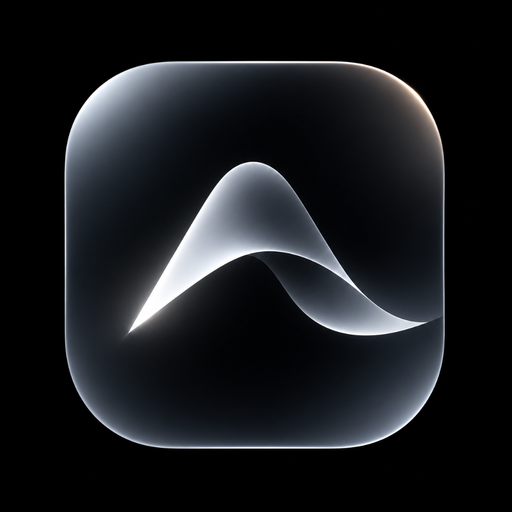
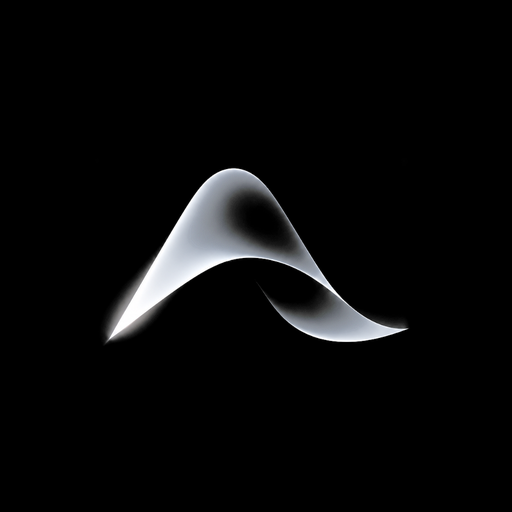
brand: remove squircle border and transition to borderless floating acoustic ribbon

diff --git a/app/src/main/java/com/aura/ui/components/OpeningReveal.kt b/app/src/main/java/com/aura/ui/components/OpeningReveal.kt
@@ -38,6 +38,8 @@ object Opening {
 /** The splash's black, matching the system splash screen and device bezels. */
 val OPENING_FIELD = Color.Black
 
+private val LOGO_SIZE = 240.dp
+
 /**
  * Apple-grade AURA Opening Reveal with Calibrated Organic Illumination:
  *
@@ -45,8 +47,8 @@ val OPENING_FIELD = Color.Black
  *    Seamlessly takes over from the OS splash screen on pure OLED black (#000000).
  *
  * 2. Ambient Sunrise (0 – 1100ms):
- *    The ambient caustic halo wakes up with a soft, gradual breath, blooming around the
- *    rounded glass corners with titanium silver (#DCE2EA, #818995) and champagne bronze (#E8D5C4).
+ *    The ambient caustic halo wakes up with a soft, gradual breath, blooming behind the
+ *    floating acoustic ribbon with titanium silver (#DCE2EA, #818995) and champagne bronze (#E8D5C4).
  *
  * 3. Silky S-Curve Illumination Sweep (180 – 1280ms, 1100ms duration):
  *    Uses an organic S-curve [CubicBezierEasing(0.35f, 0.0f, 0.25f, 1.0f)].
@@ -58,7 +60,7 @@ val OPENING_FIELD = Color.Black
  *
  * 5. Apple Fluid Spatial Unveil (1420 – 2100ms, 680ms duration):
  *    - Overlay dissolves with iOS quintic spring deceleration (cubic-bezier(0.16, 1, 0.3, 1)).
- *    - Logo elevates toward the camera (1.025 -> 1.085).
+ *    - Pure acoustic ribbon elevates toward the camera (1.00 -> 1.025 -> 1.085).
  *    - Destination app UI steps forward smoothly from 0.96 -> 1.00.
  */
 @Composable
@@ -132,13 +134,13 @@ fun OpeningReveal(onDive: (Float) -> Unit, onDone: () -> Unit) {
                 .background(causticBrush, shape = CircleShape),
         )
 
-        // 2. The Photorealistic 32-bit Master Squircle Tile
+        // 2. The Pure Volumetric 32-bit Acoustic Ribbon
         // GPU texture quad with bilinear filtering (0 CPU software scaling)
         Image(
             bitmap = logoBitmap,
             contentDescription = "AURA",
             modifier = Modifier
-                .size(210.dp)
+                .size(LOGO_SIZE)
                 .graphicsLayer {
                     val el = elevation.value
                     val d = dive.value
@@ -153,7 +155,7 @@ fun OpeningReveal(onDive: (Float) -> Unit, onDone: () -> Unit) {
         // Broad 84-unit feathered beam gliding across the 3D acoustic ribbon
         Canvas(
             modifier = Modifier
-                .size(210.dp)
+                .size(LOGO_SIZE)
                 .graphicsLayer {
                     val el = elevation.value
                     val d = dive.value
